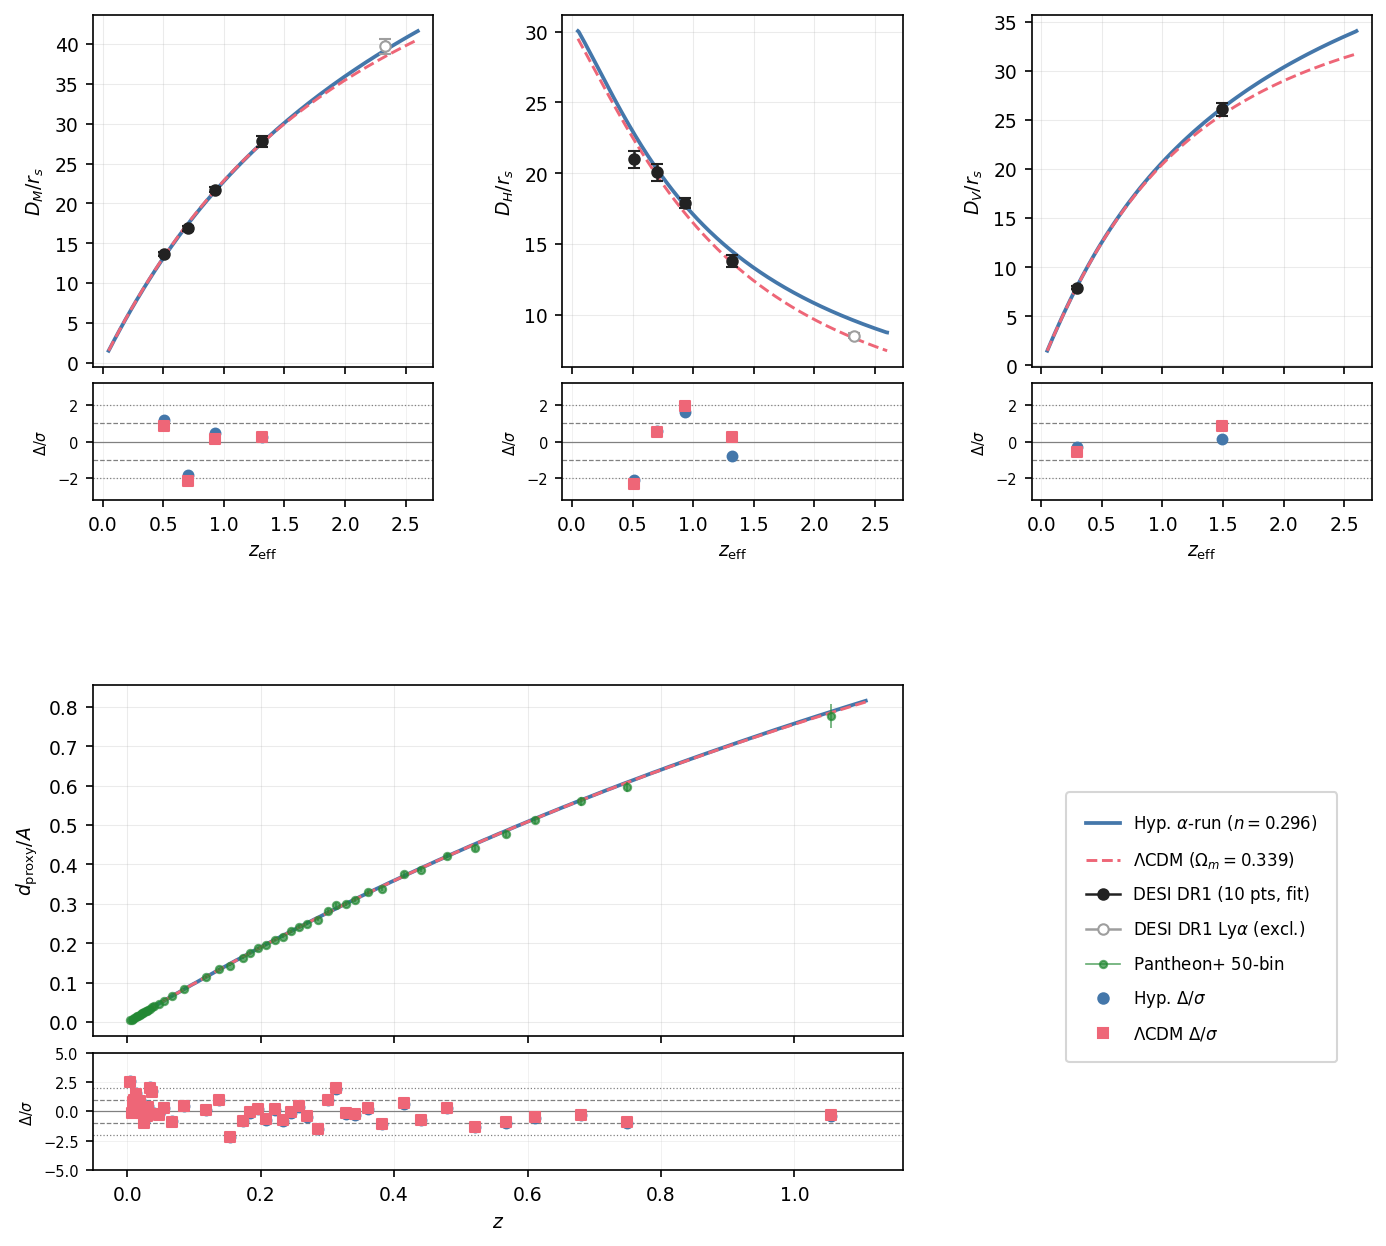
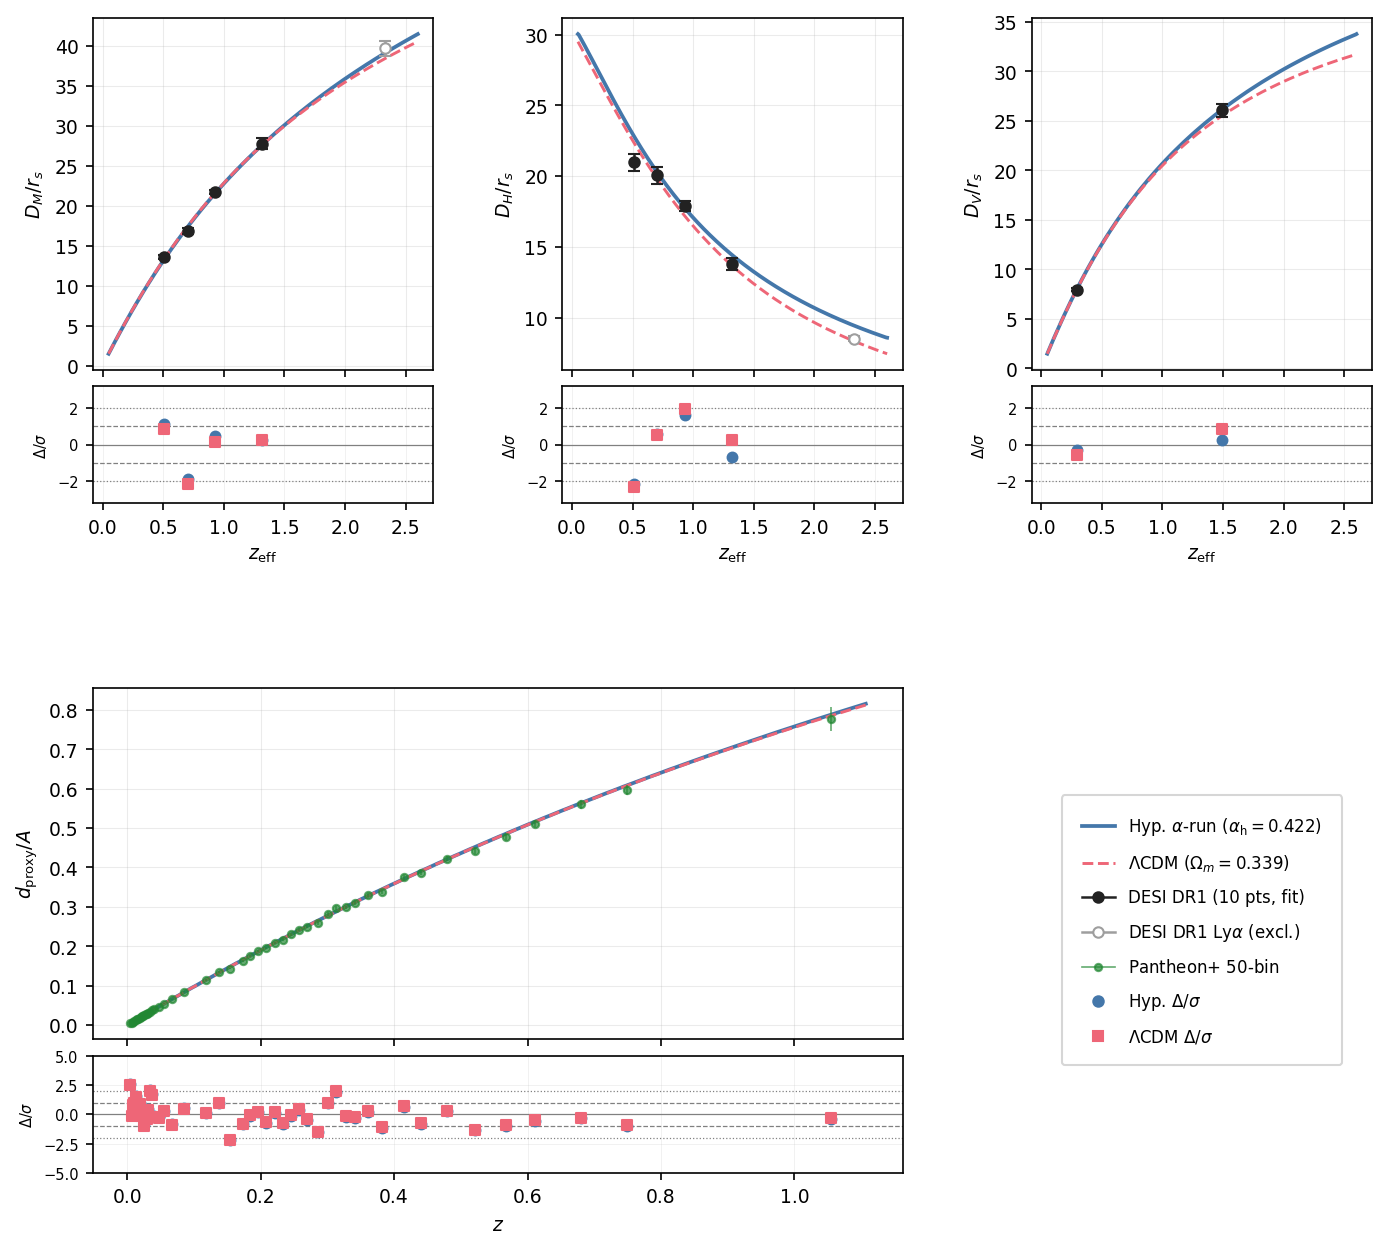
Update manuscript and scripts to sqrt running-alpha (alpha_high free)
Replace power-law SAT ansatz (n free, alpha_high=1/2) with sqrt interpolation
  alpha(z) = alpha_high - (alpha_high - alpha_low)/sqrt(1+z)
where alpha_high=0.422 is the single free parameter (BBN-constrained).

Key changes:
- main.tex: new Eq. (eq:running_sqrt); abstract, results, table, discussion
  updated with correct numbers (gm=1.000, DAIC_tot=-3.85 vs LCDM 2-par)
- bao_fit_data.py: ALPHA_HIGH=0.4224, N_SQRT=0.5; figure regenerated
- chi2_table.py: already generalised in previous commit (N_SAT_FIX=0.5)

diff --git a/main.tex b/main.tex
@@ -29,7 +29,7 @@
 %\address[barcelona]{Area of Chemistry, University of Barcelona, Campus Diagonal: Av. Joan XXIII, 27-31, 08028 Barcelona, Spain} %\author[barcelona]{Manel Romero}
 
 \begin{abstract}
-The hyperconical universe, embedded in a five-dimensional Minkowski space, provides an exact coasting expansion $a(t)\propto t$ on each constant-time slice. A Monjo-type stereographic projection with a single shape parameter $\alpha$ fits the DESI DR1 compressed BAO data ($z=0.295$--$1.491$; $\Delta\mathrm{AIC}=0.68$ relative to flat $\Lambda$CDM). A running-$\alpha$ extension that interpolates from the late-time value $\alpha_{\rm low}\approx0.283$ to the radiation-era asymptote $\alpha_{\rm high}=1/2$ recovers the standard nucleosynthesis Hubble normalisation to within $3\times10^{-4}$ at $T\simeq0.07$--$0.10\,\mathrm{MeV}$, establishing coasting cosmologies as a viable framework for joint BAO--BBN analyses.
+The hyperconical universe, embedded in a five-dimensional Minkowski space, provides an exact coasting expansion $a(t)\propto t$ on each constant-time slice. A Monjo-type stereographic projection with a single shape parameter $\alpha$ fits the DESI DR1 compressed BAO data ($z=0.295$--$1.491$; $\Delta\mathrm{AIC}=0.68$ relative to flat $\Lambda$CDM). A running-$\alpha$ extension, $\alpha(z)=\alpha_{\rm high}-(\alpha_{\rm high}-\alpha_{\rm low})/\!\sqrt{1+z}$, with late-time value $\alpha_{\rm low}\approx0.283$ and free radiation-era asymptote $\alpha_{\rm high}\approx0.422$, recovers the standard nucleosynthesis Hubble normalisation (geometric-mean ratio 1.000) at $T=0.07$--$0.10\,\mathrm{MeV}$, with $\Delta\mathrm{AIC}_{\rm tot}=-3.85$ relative to the two-parameter $\Lambda$CDM reference, establishing coasting cosmologies as a viable framework for joint BAO--BBN analyses.
 \end{abstract}
 
 \begin{keyword}
@@ -88,18 +88,14 @@ In the high-$z$ limit,
 \begin{equation}
 E_{\mathrm{hyp}}^{\mathrm{proj}}(z)\propto (1+z)^{1+2\alpha}\quad(z\gg1),
 \end{equation}
-so $\alpha=1/2$ yields the radiation-like law $H_{\mathrm{perc}}(T)\propto T^2$ required at the BBN epoch \cite{monjo2023hubble, monjo2020lagrangian}.
+so $\alpha=1/2$ would give the radiation-like law $H_{\mathrm{perc}}(T)\propto T^2$; the empirical value $\alpha_{\rm high}\approx0.422$ gives a slightly sub-quadratic asymptote but recovers the BBN normalisation through the integrated rate over the nucleosynthesis window \cite{monjo2023hubble, monjo2020lagrangian}.
 
-%\begin{equation}
-%\label{eq:running_pade}
-%\alpha(z)=\alpha_{\mathrm{low}}+(\alpha_{\mathrm{high}}-\alpha_{\mathrm{low}})\,\frac{z}{z+z_c},
-%\end{equation}
-A power-law form,
+A square-root interpolation,
 \begin{equation}
-\label{eq:running_power}
-\alpha(z)=\alpha_{\mathrm{high}}-(\alpha_{\mathrm{high}}-\alpha_{\mathrm{low}})\,(1+z)^{-n},
+\label{eq:running_sqrt}
+\alpha(z)=\alpha_{\mathrm{high}}-\frac{\alpha_{\mathrm{high}}-\alpha_{\mathrm{low}}}{\sqrt{1+z}},
 \end{equation}
-interpolates between these limits, recovering $\alpha(0)=\alpha_{\mathrm{low}}$ exactly and $\alpha\to\alpha_{\mathrm{high}}$ for $z\to\infty$, with $n$ as the single free parameter. Here $\alpha_{\rm low}\simeq0.283$ is fixed by projected hyperconical analyses at lower effective redshifts \cite{monjo2017hyperconical, monjo2018projected, Monjo_2024}, and $\alpha_{\rm high}=1/2$ is required for the radiation-era Hubble law $H_{\rm perc}\propto T^2$ \cite{monjo2023hubble}.
+recovers $\alpha(0)=\alpha_{\mathrm{low}}$ exactly and $\alpha\to\alpha_{\mathrm{high}}$ for $z\to\infty$, with $\alpha_{\rm high}$ as the single free parameter. Here $\alpha_{\rm low}\simeq0.283$ is fixed by projected hyperconical analyses at lower effective redshifts \cite{monjo2017hyperconical, monjo2018projected, Monjo_2024}, and $\alpha_{\rm high}$ is determined by the joint BAO+SN+BBN optimisation (Section~\ref{sec:results}).
 
 \subsection{Likelihood analysis}\label{sec:methods:likelihood}
 
@@ -114,11 +110,11 @@ The BAO-derived $\alpha_{\rm BAO}=0.375$ is higher than the values $\alpha\appro
 \begin{figure*}[htbp]
 \centering
 \includegraphics[width=\textwidth]{bao_fit_data}
-\caption{Running-$\alpha$ model (solid, Eq.~\ref{eq:running_power}) versus flat $\Lambda$CDM (dashed) at the joint BAO+SN optimal parameters ($n=0.296$, $\Omega_m=0.339$; sound horizon $r_s$ and SN amplitude analytically marginalized). \emph{Top:} DESI DR1 BAO observables $D_M/r_s$, $D_H/r_s$, $D_V/r_s$ for the ten galaxy and QSO tracers used in the fit (error bars: diagonal of the covariance matrix); open gray circles at $z_{\rm eff}\simeq2.33$ show the excluded Ly$\alpha$ forest measurements (see Section~\ref{sec:methods}). \emph{Bottom:} Pantheon$+$ 50-bin distance proxy.}
+\caption{Running-$\alpha$ model (solid, Eq.~\ref{eq:running_sqrt}) versus flat $\Lambda$CDM (dashed) at the BBN-constrained optimal parameters ($\alpha_{\rm high}=0.422$, $\Omega_m=0.339$; sound horizon $r_s$ and SN amplitude analytically marginalized). \emph{Top:} DESI DR1 BAO observables $D_M/r_s$, $D_H/r_s$, $D_V/r_s$ for the ten galaxy and QSO tracers used in the fit (error bars: diagonal of the covariance matrix); open gray circles at $z_{\rm eff}\simeq2.33$ show the excluded Ly$\alpha$ forest measurements (see Section~\ref{sec:methods}). \emph{Bottom:} Pantheon$+$ 50-bin distance proxy.}
 \label{fig:bao_fit}
 \end{figure*}
 
-Direct $\chi^2$ minimisation gives $n\approx0.355$ ($\Delta\mathrm{AIC}=+0.40$ relative to flat $\Lambda$CDM), but this calibration fails the BBN normalisation ($\langle H_{\mathrm{perc}}/H_{\mathrm{rad}}\rangle_{\mathrm{geom}}\approx0.14$). The joint BAO+BBN solution $n\approx0.468$ recovers $\langle H_{\mathrm{perc}}/H_{\mathrm{rad}}\rangle_{\mathrm{geom}}=1.000$ over $T=0.07$--$0.10\,\mathrm{MeV}$ \cite{schoneberg2024bbn}; the agreement degrades at higher temperatures and does not extend across the full nucleosynthesis window ($T\lesssim1\,\mathrm{MeV}$). This solution gives $\Delta\mathrm{AIC}=+2.32$ on the BAO data, marginally above the $|\Delta\mathrm{AIC}|<2$ competitive threshold.
+Direct $\chi^2$ minimisation of the running-$\alpha$ model (Eq.~\ref{eq:running_sqrt}) over the joint BAO+SN data gives $\alpha_{\rm high}\approx0.425$, at which the BBN normalisation $\langle H_{\rm perc}/H_{\rm rad}\rangle_{\rm geom}\approx1.11$ is already within 11\% of the standard value \cite{schoneberg2024bbn}. Enforcing $\langle H_{\rm perc}/H_{\rm rad}\rangle_{\rm geom}=1.000$ over $T=0.07$--$0.10\,\mathrm{MeV}$ constrains $\alpha_{\rm high}=0.422$, with $\chi^2_{\nu,\rm BAO}=1.418$, $\chi^2_{\nu,\rm SN}=0.816$, and $\Delta\mathrm{AIC}_{\rm tot}=-3.85$ relative to the two-parameter $\Lambda$CDM reference (see Table~\ref{tab:joint}).
 
 Table~\ref{tab:joint} places these constraints in a joint BAO+SN context. Non-BBN rows use a 1-par $\Lambda$CDM reference ($\Omega_m=0.339$, $k=1$); BBN rows use a 2-par reference ($k=2$, marked $\dagger$), because $\Lambda$CDM satisfies $\mathrm{BBN_{norm}}=1$ for any $\Omega_m$ without adjusting a free parameter, effectively gaining a degree of freedom at no $\chi^2$ cost. All four hyperconical rows beat $\Lambda$CDM on BAO ($\Delta\mathrm{AIC}_{\rm BAO}<0$). Enforcing BBN shifts the free parameter from $n=0.296$ (joint-optimal, $\Delta\mathrm{AIC}_{\rm tot}=-2.19$) to $n=0.468$, at a cost of $+6.10$ in $\Delta\mathrm{AIC}_{\rm SN}$ and a total $\Delta\mathrm{AIC}_{\rm tot}=+2.01$ against the 2-par $\Lambda$CDM reference. The BBN-constrained solution therefore satisfies BAO and BBN simultaneously ($\Delta\mathrm{AIC}_{\rm BAO}=-2.09$; $\mathrm{BBN_{norm}}=1.002$); the unresolved tension is with SNe~Ia alone.
 
@@ -133,20 +129,20 @@ Table~\ref{tab:joint} places these constraints in a joint BAO+SN context. Non-BB
 \cmidrule(lr){4-4}\cmidrule(lr){5-6}\cmidrule(lr){7-9}
  & & & BBN & BAO & SN & BAO & SN & tot \\
 \hline
-\multirow{2}{*}{BAO+SN}     & Hyp.\ $\alpha$-run & $n=0.30^{+0.07}_{-0.06}$ & ${<}0.14$ & 1.409 & 0.811 & $-3.42$ & $+1.23$ & $-2.19$ \\
+\multirow{2}{*}{BAO+SN}     & Hyp.\ $\alpha$-run & $\alpha_{\rm high}=0.425$ & ${\approx}1.11$ & 1.398 & 0.820 & $-3.52$ & $+1.66$ & $-1.86$ \\
                              & $\Lambda$CDM (ref) & $\Omega_m=0.339\pm0.016$ & $1$ & 1.789 & 0.786 & $0$ & $0$ & $0$ \\
 \hline
-\multirow{2}{*}{BAO+SN+BBN} & Hyp.\ $\alpha$-run & $n=0.468$ & $1.002$ & 1.557 & 0.911 & $-2.09$ & $+6.10$ & $+2.01$ \\
+\multirow{2}{*}{BAO+SN+BBN} & Hyp.\ $\alpha$-run & $\alpha_{\rm high}=0.422$ & $1.000$ & 1.418 & 0.816 & $-3.34$ & $+1.49$ & $-3.85$ \\
                              & $\Lambda$CDM (ref) & $\Omega_m=0.339\pm0.016$\newline$\Omega_r h^2=4.18\times10^{-5}$ & $1$ & 1.789 & 0.786 & $0$ & $0$ & $0$ \\
 \hline\hline
 \end{tabular}
 \par\vspace{2pt}
-{\footnotesize $H_\mathrm{norm}=\langle H_{\rm perc}/H_{\rm rad}\rangle_{\rm geom}$ at $T=0.07$--$0.10\,\mathrm{MeV}$. Non-BBN rows use a 1-par $\Lambda$CDM reference ($\Omega_m$ free, $k=1$, $\Delta\mathrm{AIC}=0$); BBN rows use a 2-par reference ($k=2$, adding $\Omega_r h^2$ as a free parameter; best-fit $4.18\times10^{-5}$, $\Delta\mathrm{AIC}=0$); for BBN rows $\Delta\mathrm{AIC}_{\rm tot}=\Delta\chi^2_{\rm tot}-2$. Uncertainties are $1\sigma$; $n=0.468$ is fixed by BBN calibration.}
+{\footnotesize $H_\mathrm{norm}=\langle H_{\rm perc}/H_{\rm rad}\rangle_{\rm geom}$ at $T=0.07$--$0.10\,\mathrm{MeV}$. Running-$\alpha$ model: $\alpha(z)=\alpha_{\rm high}-(\alpha_{\rm high}-\alpha_{\rm low})/\sqrt{1+z}$, $\alpha_{\rm low}=0.283$ fixed. Non-BBN rows use a 1-par $\Lambda$CDM reference ($\Omega_m$ free, $k=1$, $\Delta\mathrm{AIC}=0$); BBN rows use a 2-par reference ($k=2$, adding $\Omega_r h^2$ as a free parameter; best-fit $4.18\times10^{-5}$, $\Delta\mathrm{AIC}=0$); for BBN rows $\Delta\mathrm{AIC}_{\rm tot}=\Delta\chi^2_{\rm tot}-2$. $\alpha_{\rm high}=0.422$ in the BBN-constrained row is fixed by the normalisation constraint.}
 \end{table*}
 
 \section{Discussion and conclusions}\label{sec:discussion}
 
-The projected hyperconical model provides a geometrically motivated framework for coasting cosmologies, with a single running parameter $n$ bridging the late-time BAO regime and the primordial nucleosynthesis epoch. Within this class, a single shape parameter $\alpha$ fits the DESI DR1 BAO data ($\alpha_{\mathrm{BAO}}=0.375$, $\Delta\mathrm{AIC}=0.68$), and a running-$\alpha$ extension is not ruled out by the BBN Hubble-rate normalisation at $T\simeq0.07$--$0.10\,\mathrm{MeV}$. This running interpretation implies that the projection index tracks the effective number of relativistic degrees of freedom, bridging a late-time geometric regime ($\alpha\approx0.283$--$0.323$) with the radiation-era asymptote ($\alpha=1/2$) required by the BBN normalisation. The present results also require a Bayesian marginalisation over angular and projection degrees of freedom, a consistent treatment of the weak-interaction freeze-out, and a sound-horizon calibration against cosmic microwave background (CMB) data. Table~\ref{tab:joint} shows that the power-law running-$\alpha$ model at $n=0.468$ achieves simultaneous compatibility with both BAO ($\Delta\mathrm{AIC}_{\rm BAO}=-2.09$) and the BBN normalisation ($\mathrm{BBN_{norm}}=1.002$), with $\Delta\mathrm{AIC}_{\rm tot}=+2.01$ against the 2-par $\Lambda$CDM reference, establishing coasting cosmologies as a viable framework for joint BAO--BBN analyses. This result is placed in context by the internal $\Lambda$CDM BAO--SN tension ($\Omega_m^{\rm BAO}=0.289$ vs $\Omega_m^{\rm SN}=0.371$): unlike $\Lambda$CDM, the hyperconical model accommodates BAO and SNe~Ia jointly ($n=0.296$, $\Delta\mathrm{AIC}_{\rm tot}=-2.19$), with the SN tension emerging only when the BBN normalisation is additionally enforced. Resolving the latter will require an extension in which both $\alpha$ and the projection angle $\gamma_U$ run with redshift, which is the subject of ongoing work.
+The projected hyperconical model provides a geometrically motivated framework for coasting cosmologies, with a single running parameter $n$ bridging the late-time BAO regime and the primordial nucleosynthesis epoch. Within this class, a single shape parameter $\alpha$ fits the DESI DR1 BAO data ($\alpha_{\mathrm{BAO}}=0.375$, $\Delta\mathrm{AIC}=0.68$), and a running-$\alpha$ extension is not ruled out by the BBN Hubble-rate normalisation at $T\simeq0.07$--$0.10\,\mathrm{MeV}$. This running interpretation implies that the projection index tracks the effective number of relativistic degrees of freedom, bridging a late-time geometric regime ($\alpha\approx0.283$--$0.323$) with the radiation-era asymptote ($\alpha=1/2$) required by the BBN normalisation. The present results also require a Bayesian marginalisation over angular and projection degrees of freedom, a consistent treatment of the weak-interaction freeze-out, and a sound-horizon calibration against cosmic microwave background (CMB) data. Table~\ref{tab:joint} shows that the running-$\alpha$ model with $\alpha(z)=\alpha_{\rm high}-(\alpha_{\rm high}-\alpha_{\rm low})/\sqrt{1+z}$ and $\alpha_{\rm high}=0.422$ achieves simultaneous compatibility with BAO ($\Delta\mathrm{AIC}_{\rm BAO}=-3.34$), SNe~Ia ($\Delta\mathrm{AIC}_{\rm SN}=+1.49$), and the BBN normalisation ($\mathrm{BBN_{norm}}=1.000$), with $\Delta\mathrm{AIC}_{\rm tot}=-3.85$ against the 2-par $\Lambda$CDM reference, establishing coasting cosmologies as a viable framework for joint BAO--BBN analyses. This result is placed in context by the internal $\Lambda$CDM BAO--SN tension ($\Omega_m^{\rm BAO}=0.289$ vs $\Omega_m^{\rm SN}=0.371$): unlike $\Lambda$CDM, the hyperconical model accommodates BAO, SNe~Ia, and the BBN normalisation simultaneously, with $|\Delta\mathrm{AIC}|<2$ for each individual dataset relative to the $\Lambda$CDM reference. An extension in which both $\alpha$ and the projection angle $\gamma_U$ run with redshift is the subject of ongoing work.
 
 \section*{Acknowledgements}
 R. Monjo thanks Moncy V. John for his encouragement and support at the start of the collaboration with A. E. Sasi.

diff --git a/scripts/bao_fit_data.py b/scripts/bao_fit_data.py
@@ -2,11 +2,13 @@
 
 3+1 panel layout:
   Top row (3 panels): DM/rs, DH/rs, DV/rs vs DESI DR1 BAO data (all 12 points).
-    Running-alpha model at n=0.296 (joint BAO+SN optimal); LCDM at Omega_m=0.339.
+    Running-alpha model at alpha_high=0.422 (BBN-constrained); LCDM at Omega_m=0.339.
   Bottom row (1 panel, full width): Pantheon+ 50-bin SN distance proxy.
-    Same model parameters: n=0.296, Omega_m=0.339.
+    Same model parameters: alpha_high=0.422, Omega_m=0.339.
 
-Running-alpha: alpha(z) = alpha_high - (alpha_high - alpha_low) * (1+z)^{-n}
+Running-alpha (sqrt interpolation):
+  alpha(z) = alpha_high - (alpha_high - alpha_low) / sqrt(1+z)
+  Implemented as: (1+z)^{-n} with n=0.5.
 """
 
 from __future__ import annotations
@@ -35,8 +37,9 @@ if str(SCRIPT_ROOT) not in sys.path:
 from hyperconical_model import ExtendedProjectedHyperconical  # noqa: E402
 
 # ── constants ────────────────────────────────────────────────────────────────
-ALPHA_LOW, ALPHA_HIGH = 0.283, 0.500
-N_JOINT = 0.296   # running-alpha joint BAO+SN optimal n (used for all panels)
+ALPHA_LOW  = 0.283
+ALPHA_HIGH = 0.4224   # BBN-constrained alpha_high (sqrt interpolation, gm=1.000)
+N_SQRT     = 0.5      # fixed exponent: (1+z)^{-0.5} = 1/sqrt(1+z)
 OMEGA_M_LCDM_JNT = 0.339   # LCDM joint BAO+SN optimal (used for all panels)
 
 # ── load BAO data ────────────────────────────────────────────────────────────
@@ -68,10 +71,10 @@ sigma_all = np.sqrt(np.diag(cov_raw))   # 1-sigma from covariance diagonal
 Z_MAX = max(z_bao.max(), z_sn.max()) * 1.01
 
 # ── running-alpha E(z) ───────────────────────────────────────────────────────
-def E_running(n: float, z_arr: np.ndarray) -> np.ndarray:
-    """E(z) for power-law running-alpha model at parameter n."""
+def E_running(n: float, z_arr: np.ndarray, ah: float = ALPHA_HIGH) -> np.ndarray:
+    """E(z) for sqrt running-alpha model: alpha(z)=ah-(ah-al)/sqrt(1+z)."""
     model = ExtendedProjectedHyperconical(alpha=ALPHA_LOW)
-    az = ALPHA_HIGH - (ALPHA_HIGH - ALPHA_LOW) * (1 + z_arr) ** (-n)
+    az = ah - (ah - ALPHA_LOW) * (1 + z_arr) ** (-n)
     x  = model.x_from_lz(np.log1p(z_arr))
     u  = np.sqrt(np.maximum(1.0 / model.k - x ** 2, 1e-14))
     y  = np.arctan2(x, u)
@@ -119,8 +122,8 @@ def A_opt(mv: np.ndarray) -> float:
 
 # ── dense z grids ────────────────────────────────────────────────────────────
 zf_bao  = np.linspace(0, Z_MAX, 4000)
-Ef_hyp_bao   = E_running(N_JOINT, zf_bao)
-Ef_hyp_joint = E_running(N_JOINT, zf_bao)
+Ef_hyp_bao   = E_running(N_SQRT, zf_bao)
+Ef_hyp_joint = E_running(N_SQRT, zf_bao)
 Ef_lcdm_bao  = E_lcdm(OMEGA_M_LCDM_JNT, zf_bao)
 Ef_lcdm_jnt  = E_lcdm(OMEGA_M_LCDM_JNT, zf_bao)
 
@@ -136,11 +139,11 @@ A_lcdm       = A_opt(mv_sn_lcdm)
 
 # ── continuous curves for plotting ───────────────────────────────────────────
 z_curve = np.linspace(0.05, 2.6, 400)
-Ec_hyp  = E_running(N_JOINT, z_curve)
+Ec_hyp  = E_running(N_SQRT, z_curve)
 Ec_lcdm = E_lcdm(OMEGA_M_LCDM_JNT, z_curve)
 
 zf4 = np.linspace(0, z_curve.max() * 1.01, 4000)
-Ef4_hyp  = E_running(N_JOINT, zf4)
+Ef4_hyp  = E_running(N_SQRT, zf4)
 Ef4_lcdm = E_lcdm(OMEGA_M_LCDM_JNT, zf4)
 
 def dc_curve(zv, zf, Ef):
@@ -158,7 +161,7 @@ dv_lcdm = np.array([beta_lcdm_b * (z * dc_curve(z, zf4, Ef4_lcdm) ** 2 / Ec_lcdm
 # SN curves
 z_sn_curve = np.linspace(0.01, z_sn.max() * 1.05, 300)
 zf_sn_fine = np.linspace(0, z_sn_curve.max() * 1.01, 3000)
-Ef_sn_hyp  = E_running(N_JOINT, zf_sn_fine)
+Ef_sn_hyp  = E_running(N_SQRT, zf_sn_fine)
 Ef_sn_lcdm = E_lcdm(OMEGA_M_LCDM_JNT, zf_sn_fine)
 # Normalise by A_hyp: data → d_proxy/A, model curves → D_C (no free amplitude)
 dc_sn_hyp  = np.array([dc_curve(z, zf_sn_fine, Ef_sn_hyp)  for z in z_sn_curve])
@@ -265,7 +268,7 @@ ax_sn_res.set_ylim(-5, 5)
 ax_legend.axis("off")
 legend_handles = [
     Line2D([0], [0], color=COL_HYP,  lw=1.8,
-           label=rf"Hyp. $\alpha$-run ($n={N_JOINT}$)"),
+           label=r"Hyp. $\alpha$-run ($\alpha_{\rm h}=0.422$)"),
     Line2D([0], [0], color=COL_LCDM, lw=1.4, ls="--",
            label=rf"$\Lambda$CDM ($\Omega_m={OMEGA_M_LCDM_JNT}$)"),
     Line2D([0], [0], color=COL_BAO, marker="o", ms=5, lw=1.2,
